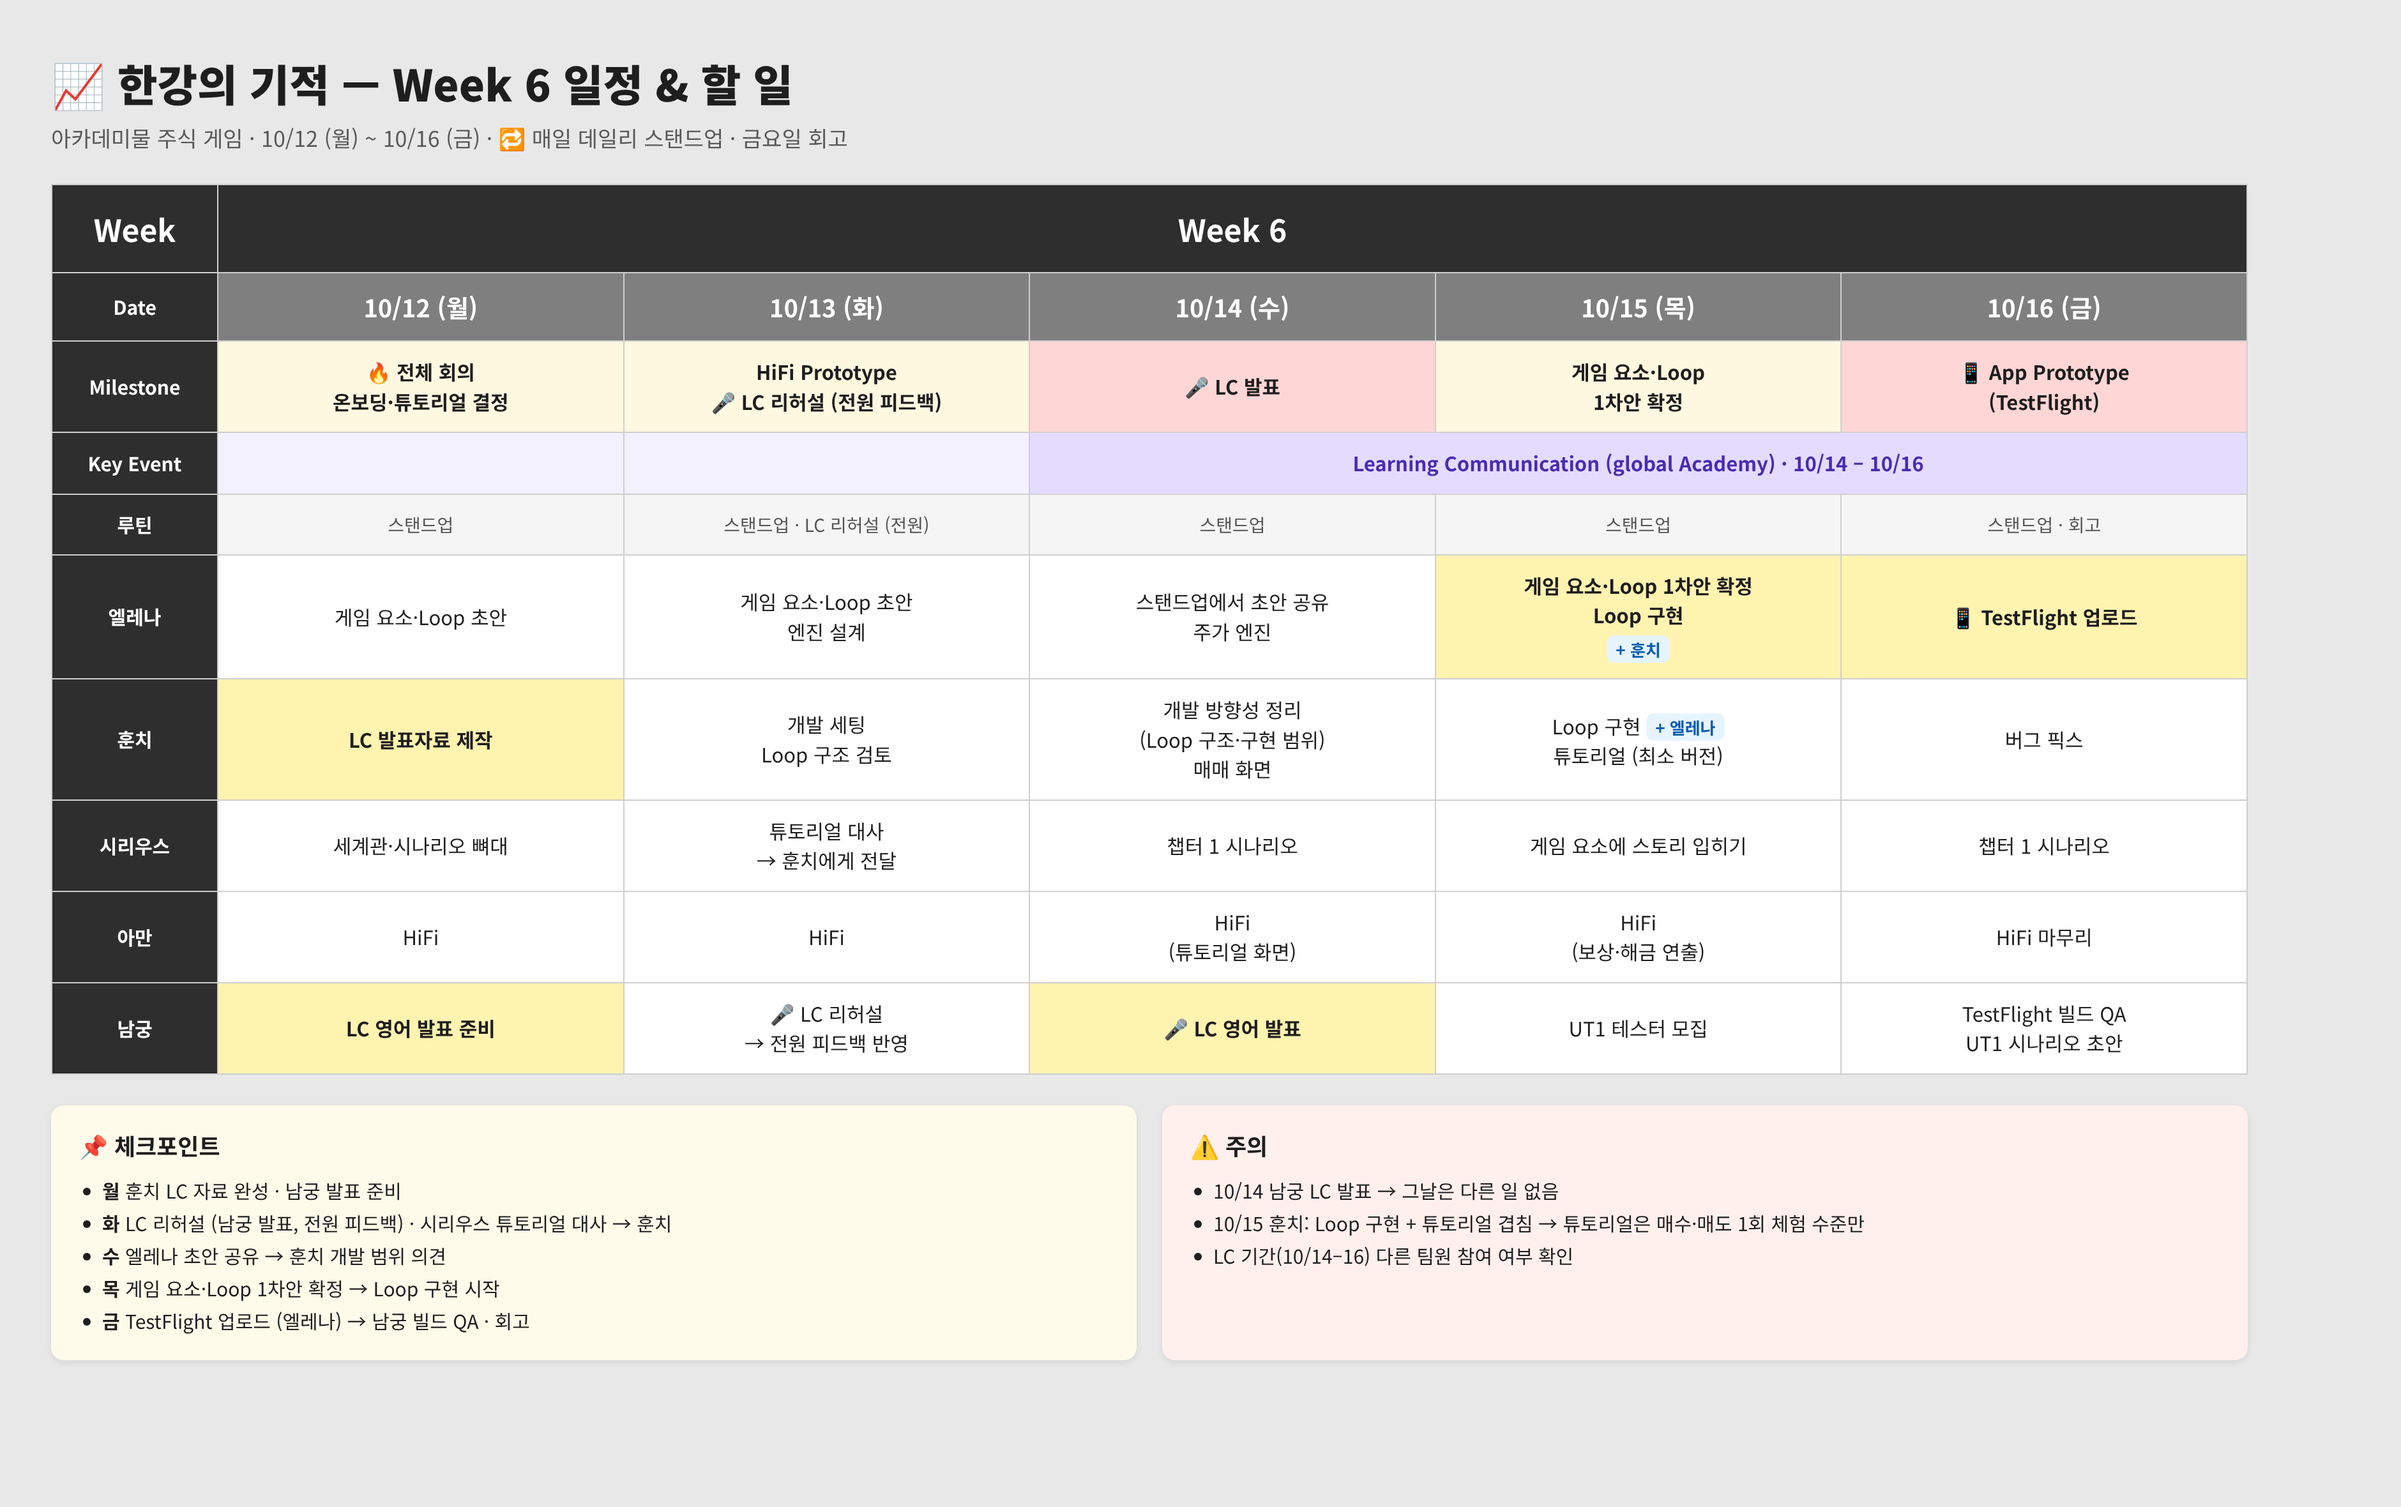
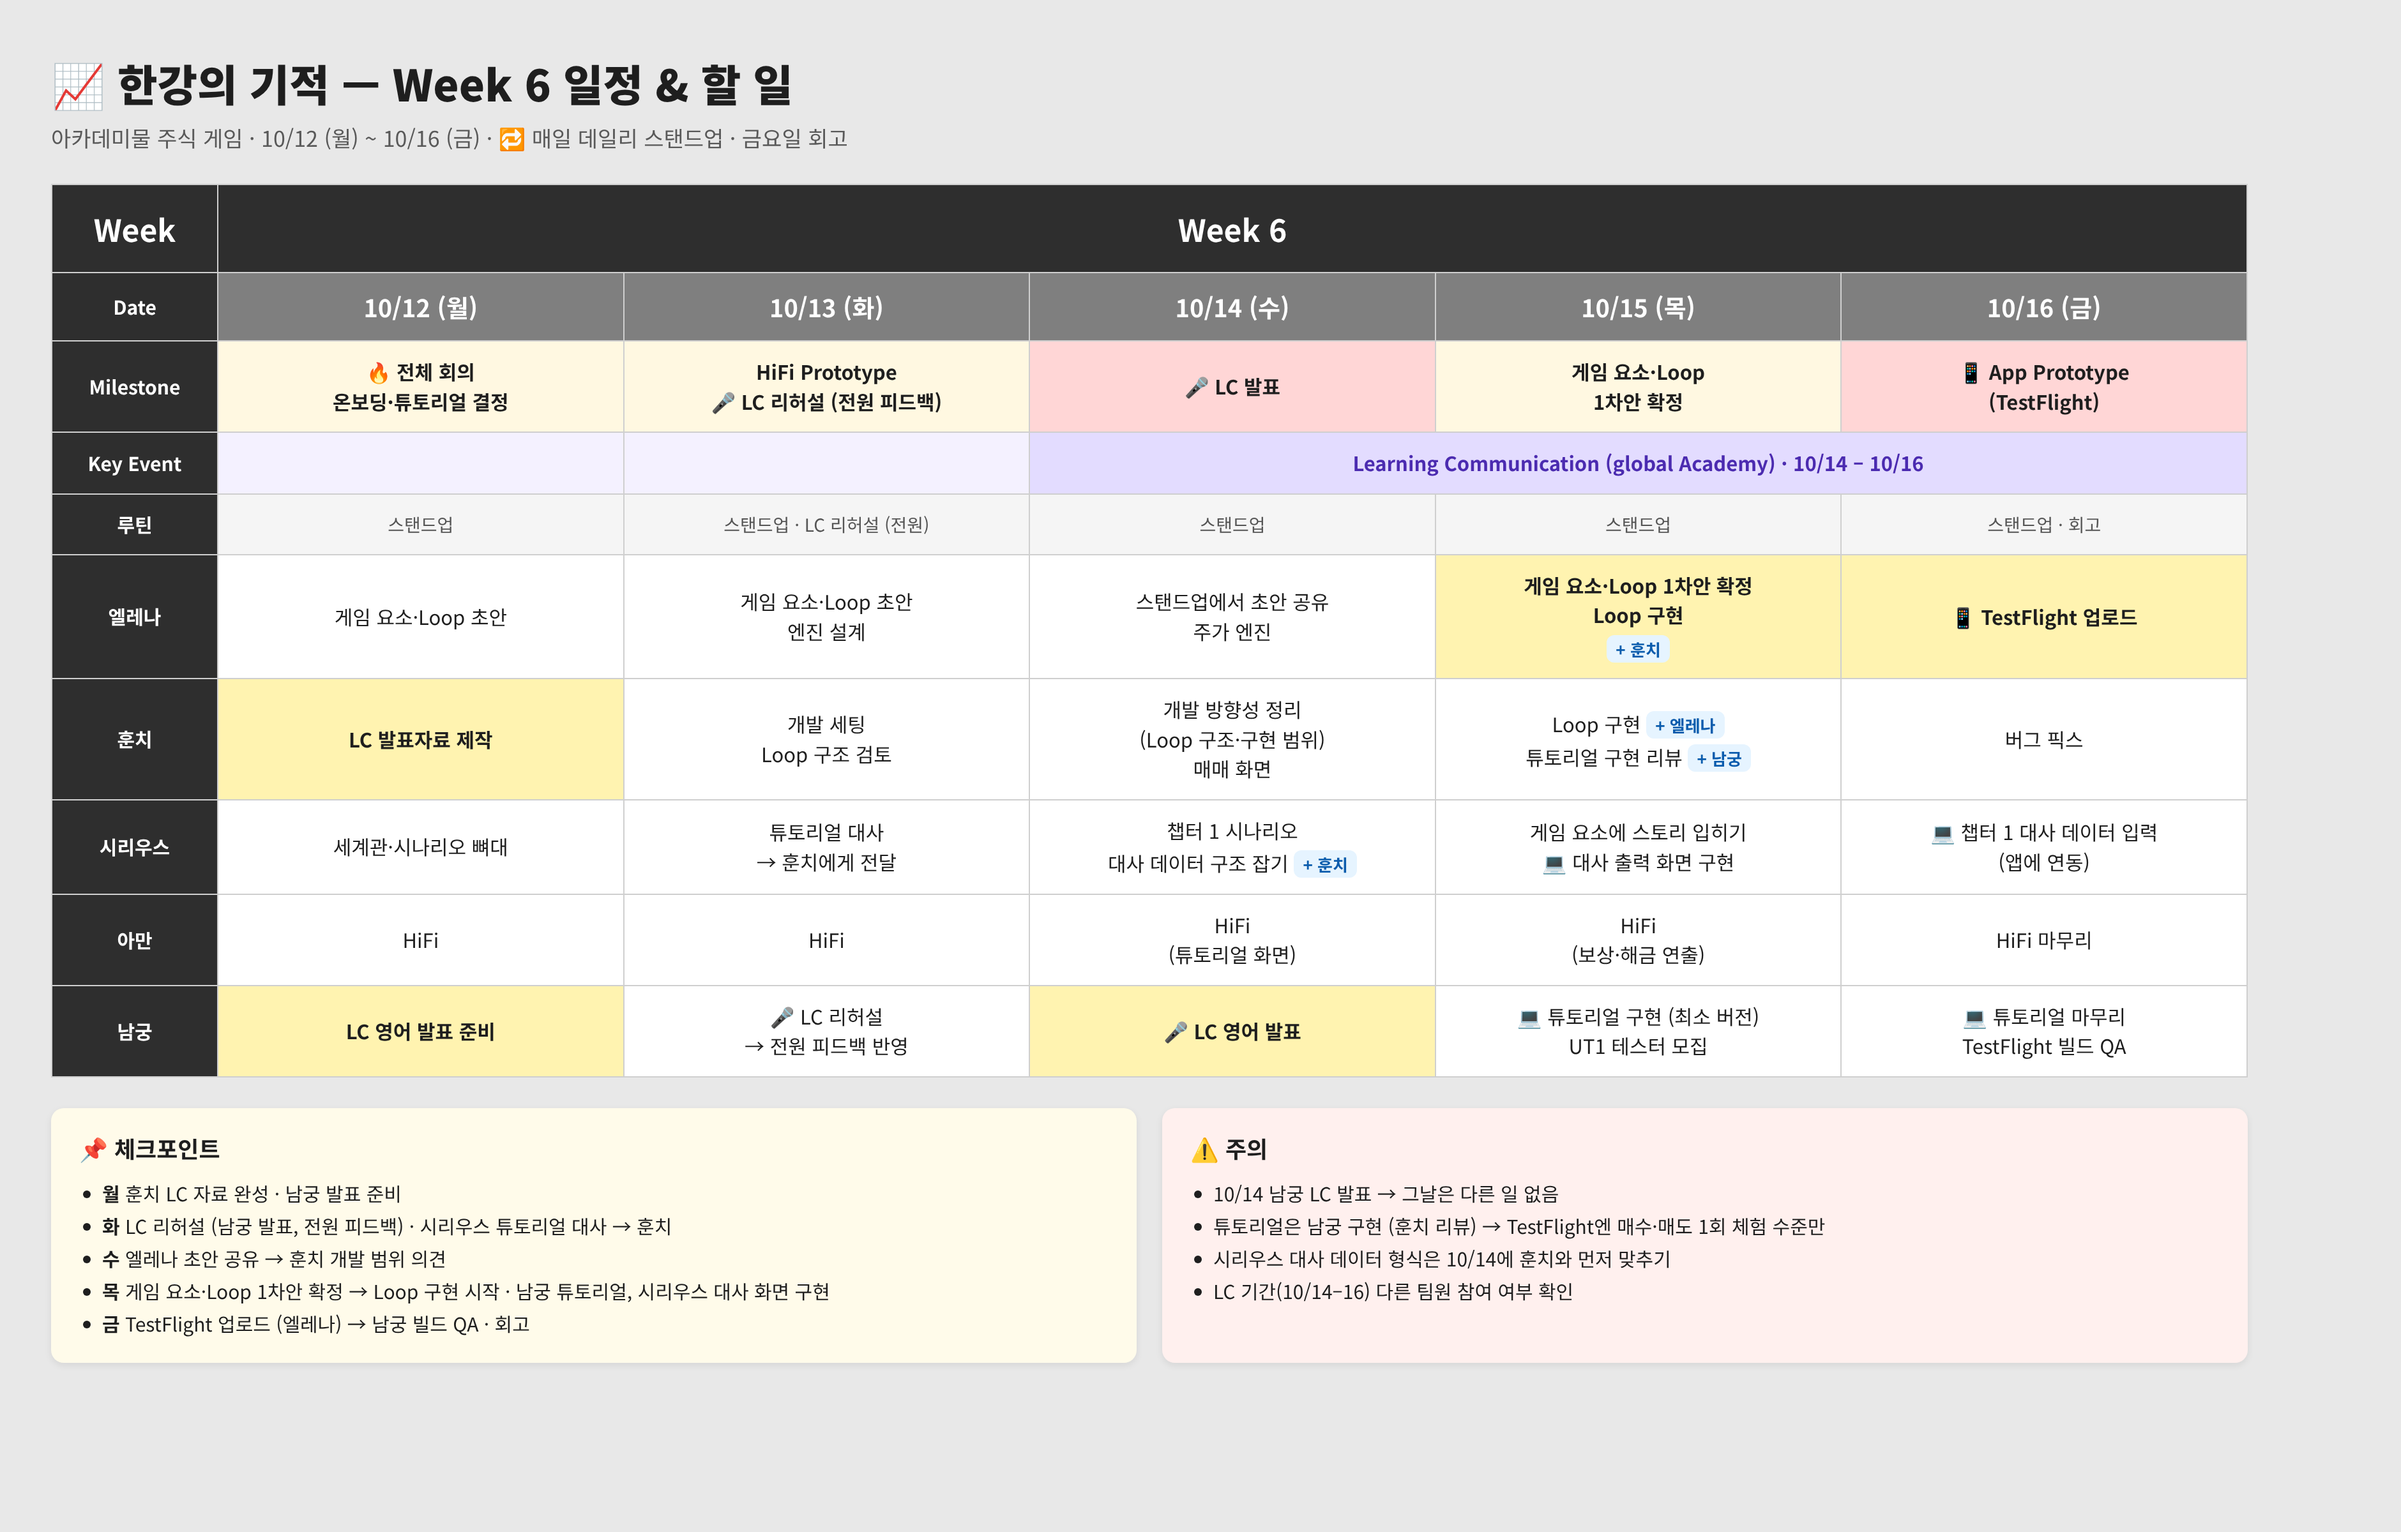
Week 6 schedule: add implementation tasks for Sirius and Namgung
Claude-Session: https://claude.ai/code/session_01KncY7HRAQxZkcjScPh9xov

diff --git a/docs/schedule/week6.html b/docs/schedule/week6.html
@@ -51,14 +51,14 @@ col.label{width:130px}
 <td class="hi">LC 발표자료 제작</td>
 <td>개발 세팅<br>Loop 구조 검토</td>
 <td>개발 방향성 정리<br>(Loop 구조·구현 범위)<br>매매 화면</td>
-<td>Loop 구현 <span class="pair">+ 엘레나</span><br>튜토리얼 (최소 버전)</td>
+<td>Loop 구현 <span class="pair">+ 엘레나</span><br>튜토리얼 구현 리뷰 <span class="pair">+ 남궁</span></td>
 <td>버그 픽스</td></tr>
 <tr class="person"><td class="rowlab name">시리우스</td>
 <td>세계관·시나리오 뼈대</td>
 <td>튜토리얼 대사<br>→ 훈치에게 전달</td>
-<td>챕터 1 시나리오</td>
-<td>게임 요소에 스토리 입히기</td>
-<td>챕터 1 시나리오</td></tr>
+<td>챕터 1 시나리오<br>대사 데이터 구조 잡기 <span class="pair">+ 훈치</span></td>
+<td>게임 요소에 스토리 입히기<br>💻 대사 출력 화면 구현</td>
+<td>💻 챕터 1 대사 데이터 입력<br>(앱에 연동)</td></tr>
 <tr class="person"><td class="rowlab name">아만</td>
 <td>HiFi</td>
 <td>HiFi</td>
@@ -69,20 +69,21 @@ col.label{width:130px}
 <td class="hi">LC 영어 발표 준비</td>
 <td>🎤 LC 리허설<br>→ 전원 피드백 반영</td>
 <td class="hi">🎤 LC 영어 발표</td>
-<td>UT1 테스터 모집</td>
-<td>TestFlight 빌드 QA<br>UT1 시나리오 초안</td></tr>
+<td>💻 튜토리얼 구현 (최소 버전)<br>UT1 테스터 모집</td>
+<td>💻 튜토리얼 마무리<br>TestFlight 빌드 QA</td></tr>
 </table>
 <div class="notes">
 <div class="card"><h3>📌 체크포인트</h3><ul>
 <li><b>월</b> 훈치 LC 자료 완성 · 남궁 발표 준비</li>
 <li><b>화</b> LC 리허설 (남궁 발표, 전원 피드백) · 시리우스 튜토리얼 대사 → 훈치</li>
 <li><b>수</b> 엘레나 초안 공유 → 훈치 개발 범위 의견</li>
-<li><b>목</b> 게임 요소·Loop 1차안 확정 → Loop 구현 시작</li>
+<li><b>목</b> 게임 요소·Loop 1차안 확정 → Loop 구현 시작 · 남궁 튜토리얼, 시리우스 대사 화면 구현</li>
 <li><b>금</b> TestFlight 업로드 (엘레나) → 남궁 빌드 QA · 회고</li>
 </ul></div>
 <div class="card warn"><h3>⚠ 주의</h3><ul>
 <li>10/14 남궁 LC 발표 → 그날은 다른 일 없음</li>
-<li>10/15 훈치: Loop 구현 + 튜토리얼 겹침 → 튜토리얼은 매수·매도 1회 체험 수준만</li>
+<li>튜토리얼은 남궁 구현 (훈치 리뷰) → TestFlight엔 매수·매도 1회 체험 수준만</li>
+<li>시리우스 대사 데이터 형식은 10/14에 훈치와 먼저 맞추기</li>
 <li>LC 기간(10/14–16) 다른 팀원 참여 여부 확인</li>
 </ul></div>
 </div>
